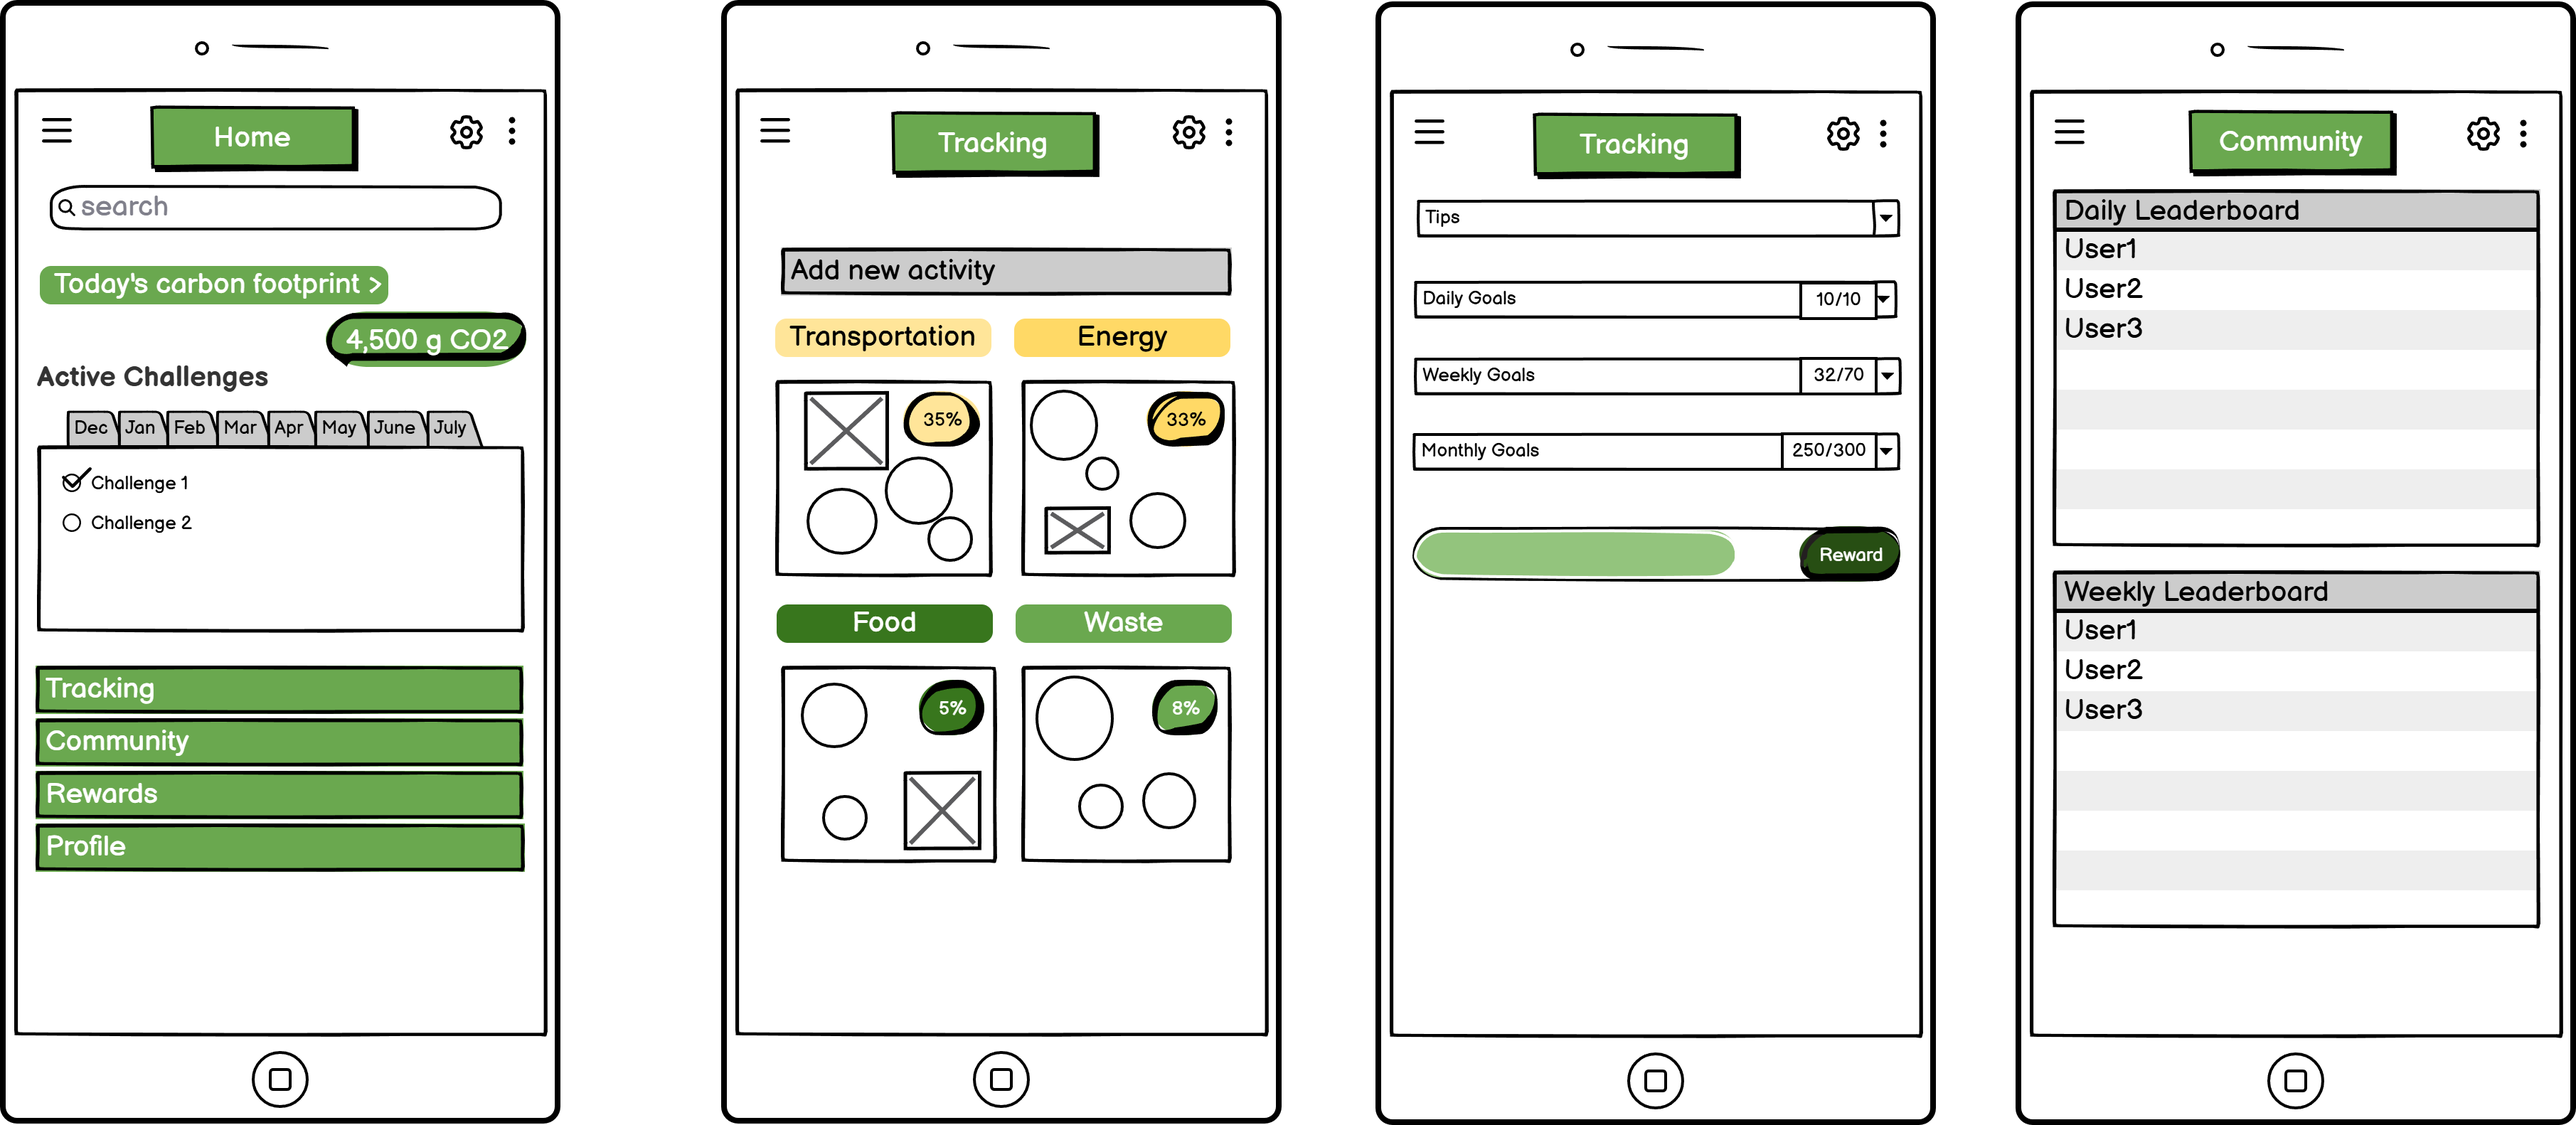
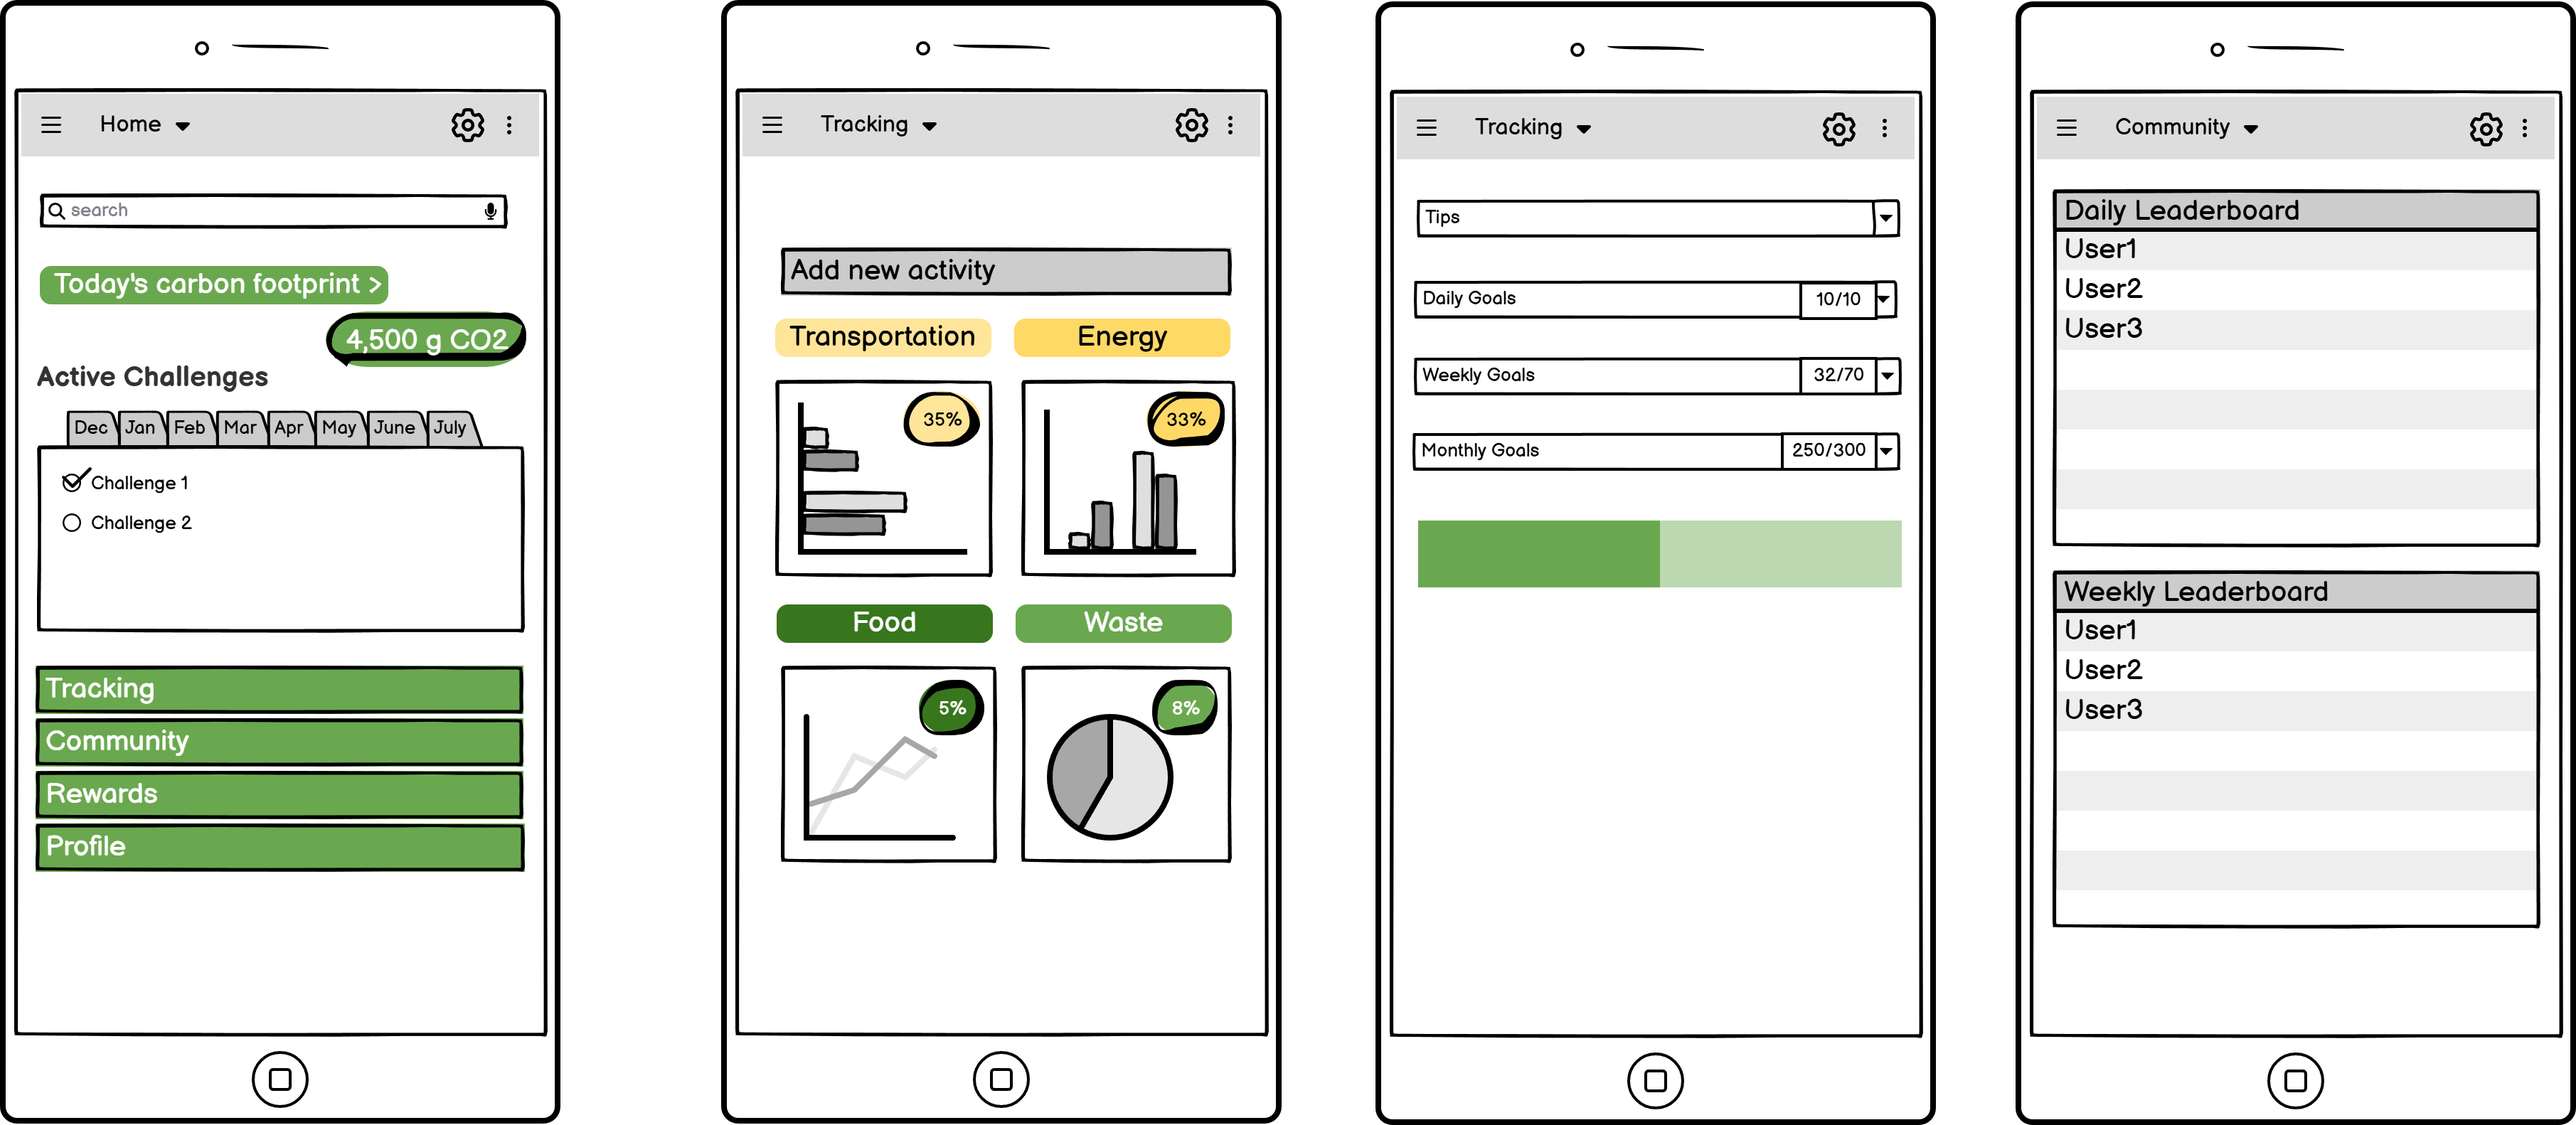
gaikrfdgbkjas

diff --git a/m4.html b/m4.html
@@ -235,22 +235,13 @@
 
 	<!-- Updated Wireframes Section -->
 	<section class="updated-wireframes">
-		<div class="container">
-			<h2 class="title">User Flows</h2>
-			<div class="row">
-				<div class="col-md-6">
-					<img src="img/user-flows.png" alt="User Flows" class="img-fluid">
-				</div>
-			</div>
-			<div class="row">
-				<h2 class="title">Updated Wireframes Based on Findings</h2>
-				<div class="col-md-6">
-					<img src="img/wireframe-2.png" alt="Wireframe 2" class="img-fluid">
-				</div>
+		<div class="container text-center">
+			<h2 class="title">Updated Wireframes Based on Findings</h2>
+			<div class="image-container">
+				<img src="img/wireframe-1.png" alt="Wireframes" class="img-fluid">
 			</div>
 		</div>
 	</section>
-
 </div>
 
 <footer>
